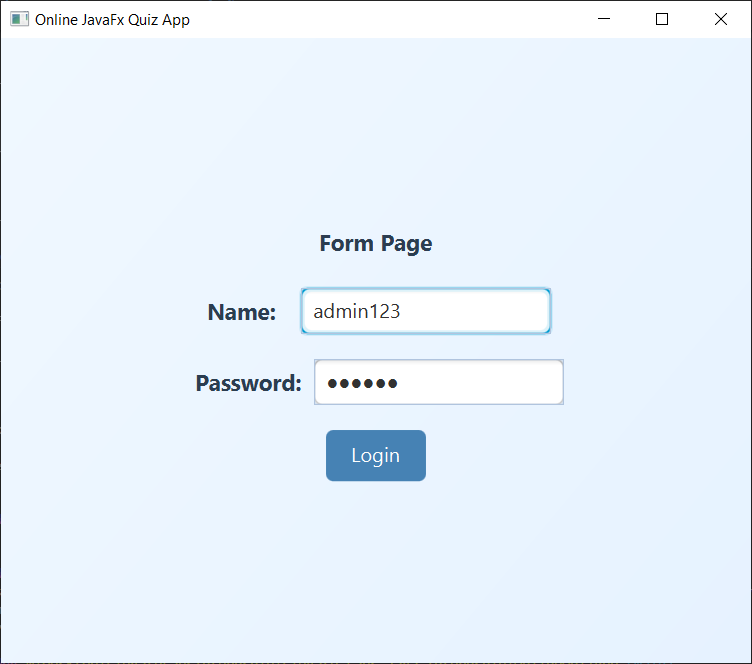
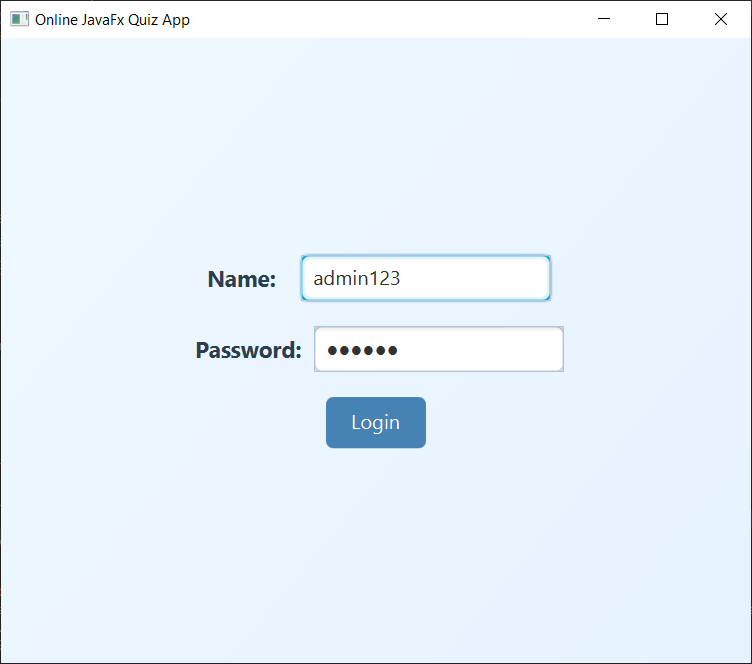
README.md Updated

diff --git a/OnlineQuizApp/src/App.java b/OnlineQuizApp/src/App.java
@@ -122,7 +122,7 @@ public class App extends Application {
 
         VBox layout2 = new VBox(20); // spacing between rows
         layout2.getStyleClass().add("vbox");
-        layout2.getChildren().addAll(new Label("Form Page"), nameRow, passwordBox, login);
+        layout2.getChildren().addAll(nameRow, passwordBox, login);
 
         Scene scene2 = new Scene(layout2, 600, 500);
         scene2.getStylesheets().add(css);
